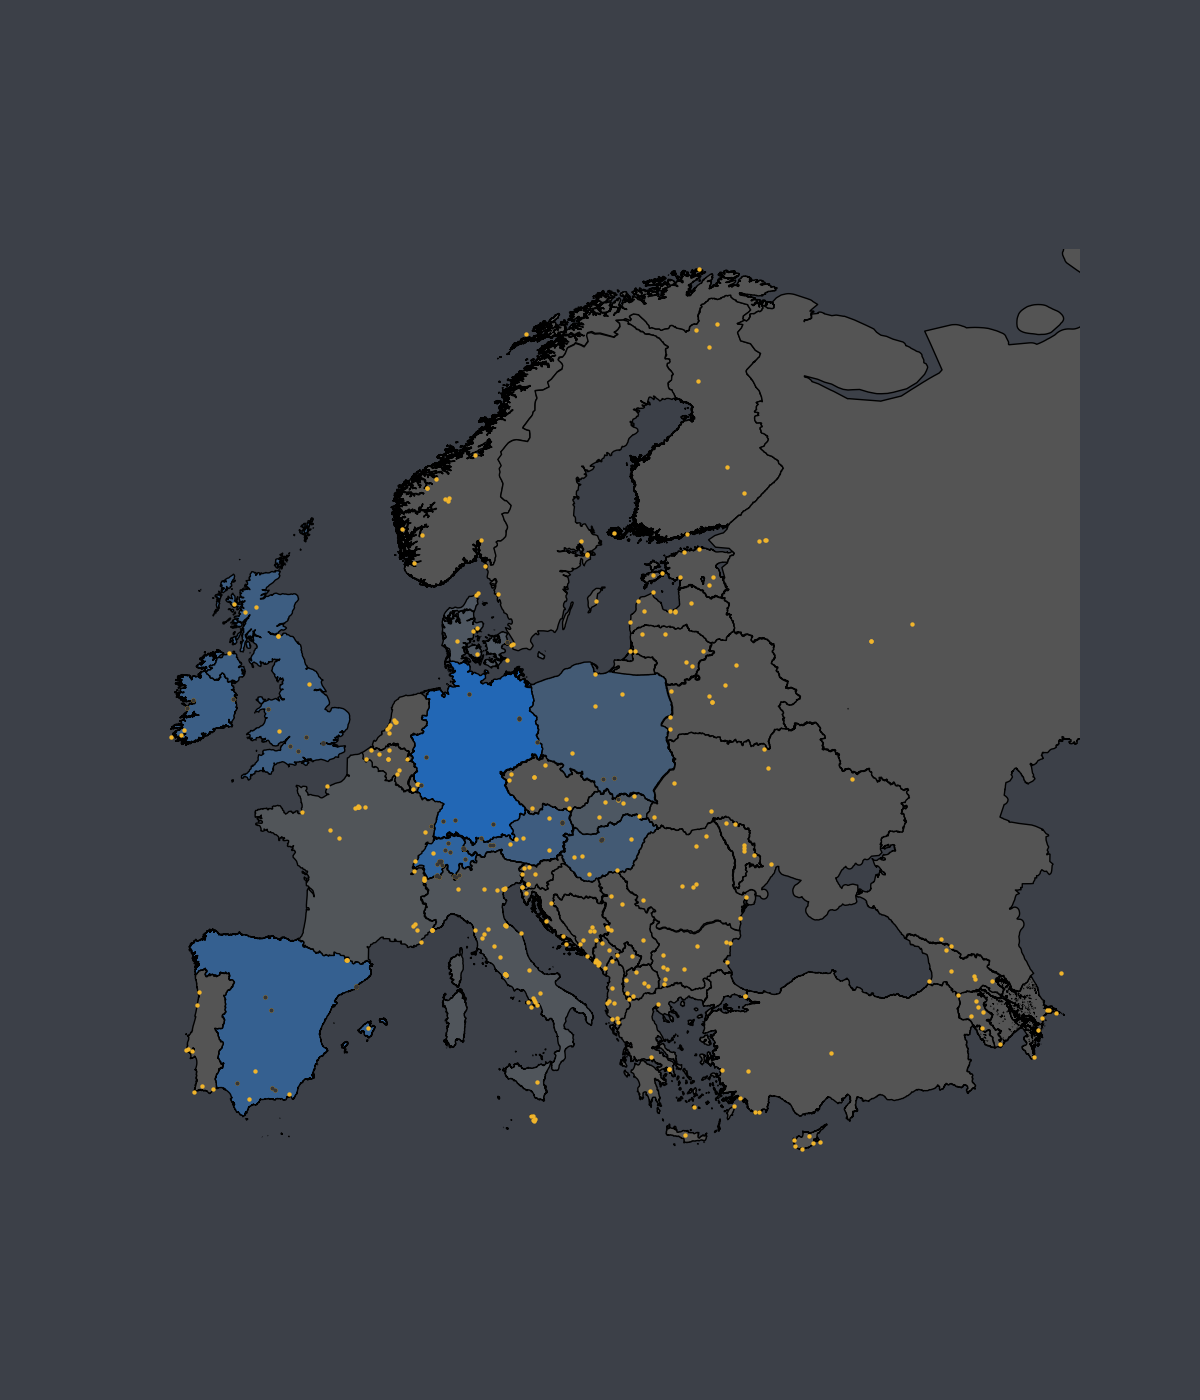
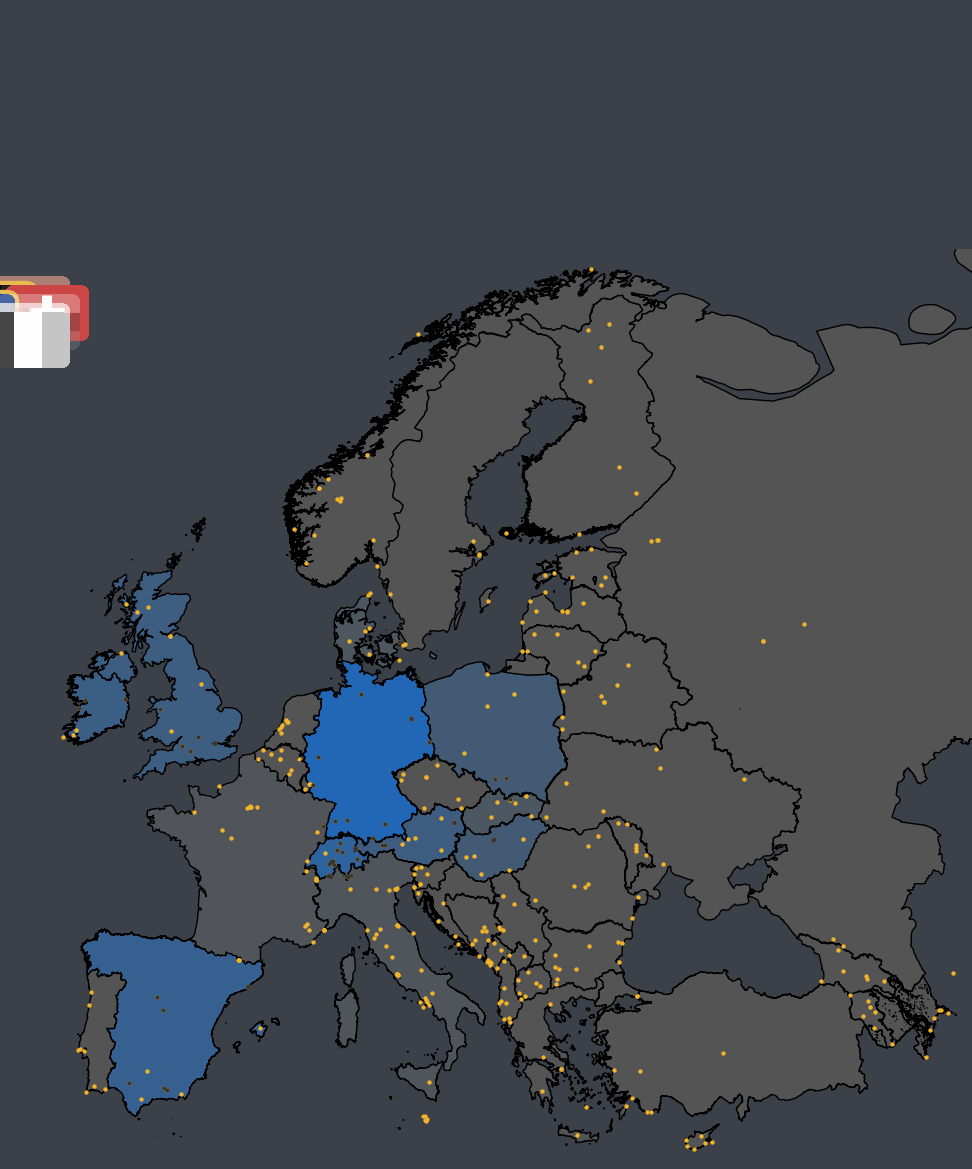
add maps png

diff --git a/plotting/plotting_manager.py b/plotting/plotting_manager.py
@@ -107,6 +107,7 @@ class PlotManager:
             )
 
     def _plot_flags(self, ax):
+        print("_plot_flags called")
 
         if self.scale >= 3:
             flag_size = "large"
@@ -118,6 +119,8 @@ class PlotManager:
         flag_positon = self.meta_data["Flags"]["Position"]
         
         png_files = [f for f in os.listdir(f"{self.path}/submaps") if f.lower().endswith(".png")]
+        print("submaps path:", f"{self.path}/submaps")
+        print("png_files:", png_files)
         for i, file in enumerate(png_files):
             frameon = False
 
@@ -166,6 +169,9 @@ class PlotManager:
                 xycoords='axes fraction'
             )
             ax.add_artist(imagebox_gry)
+            ax.plot(x_position, y_position, 'ro', transform=ax.transAxes)
+            print(i, img_position)
+
 
             imagebox_img = AnnotationBbox(
                 OffsetImage(img, zoom=flag_scale), 

diff --git a/svg_conversion.py b/svg_conversion.py
@@ -2,7 +2,7 @@ import os
 import cairosvg
 from PIL import Image, ImageDraw
 
-PATH = "us"
+PATH = "eu"
 RADIUS = 30  # Corner rounding radius in pixels
 CROP_WIDTH, CROP_HEIGHT = 300, 200  # Desired output size
 
